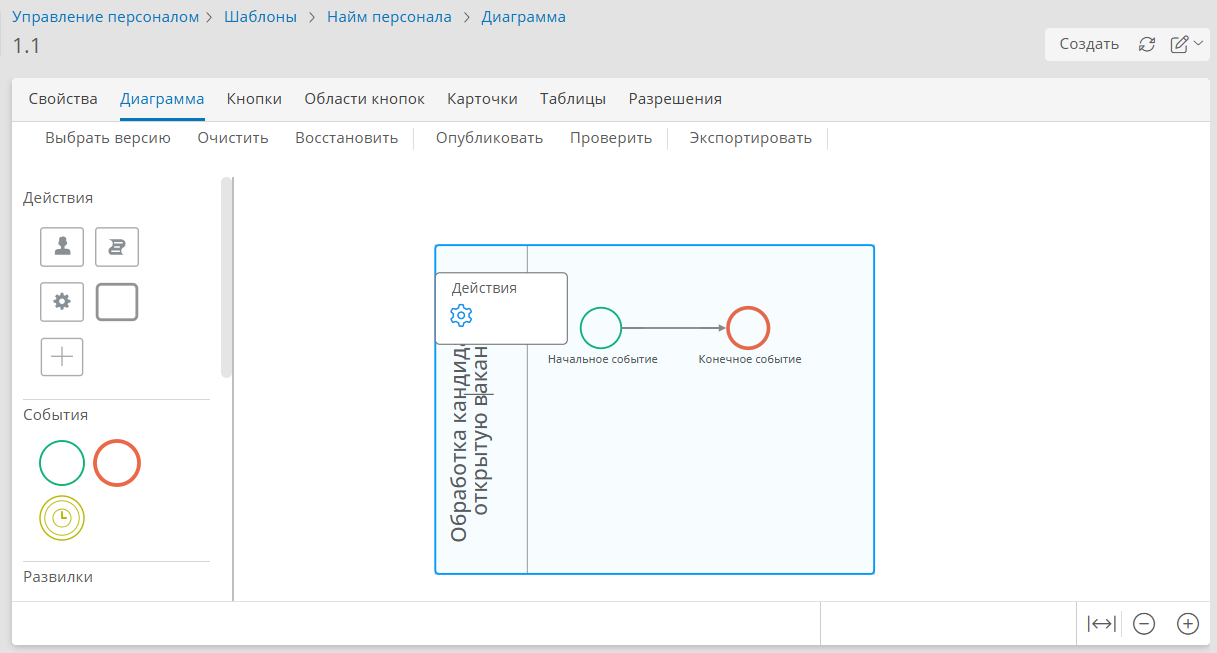
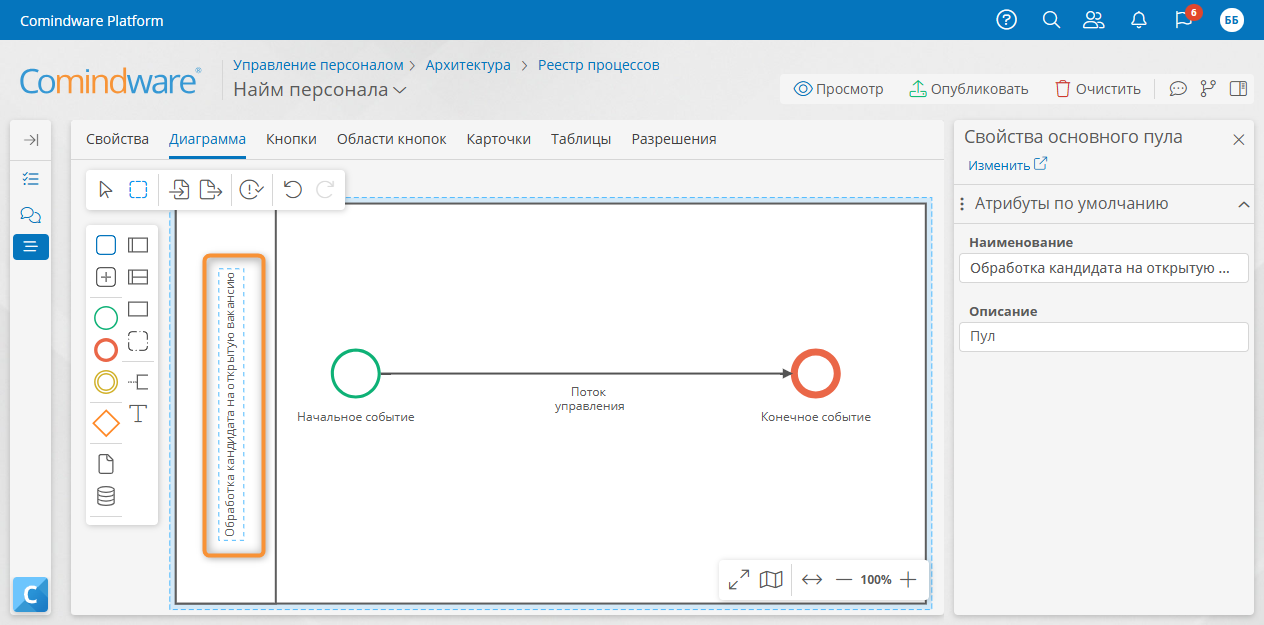
[#10346219] Updated and published process diagram articles and tutorial_hr/lesson_3

diff --git a/for_kb_import_ru/tutorials/tutorial_hr/lesson_3.html b/for_kb_import_ru/tutorials/tutorial_hr/lesson_3.html
@@ -264,24 +264,49 @@
 <p><figure class="screenshot_with_caption" markdown=""><img alt="Конструктор диаграммы процесса" src="/platform/v5.0/tutorials/tutorial_hr/img/lesson_3_process_diagram_designer.png"/><figcaption class="caption">Конструктор диаграммы процесса</figcaption></figure></p>
 <div class="notice notice-success">
 <p class="admonition-title">Конструктор диаграммы процесса</p>
-<p>Конструктор диаграммы процесса состоит из трех частей, показанных на иллюстрации.</p>
-<p><strong>(1)</strong> <strong>Панель элементов</strong>, которые можно перетащить на диаграмму:</p>
+<p>В конструкторе диаграммы процесса предусмотрены следующие области.</p>
+<p><strong>(1) Кнопки операций с диаграммой</strong></p>
 <ul>
-<li>
-<p><strong>Действия</strong> — задачи и подпроцессы:</p>
-<ul>
-<li><strong>задачи</strong> — <strong>пользовательские</strong> (выполнение действий данных участником процесса через форму задачи) и автоматические (выполнение сценария, вызов сервиса);</li>
-<li><strong>подпроцессы</strong> — <strong>вызов процесса</strong> и <strong>встроенный подпроцесс</strong>;</li>
+<li><strong>Просмотр</strong> — переход в режим просмотра диаграммы.</li>
+<li><strong>Опубликовать</strong> — <a class="mkdocs_imported_link" href="#process_diagram_publish">публикация</a> текущей диаграммы бизнес-процесса.</li>
+<li><strong>Очистить</strong> — удаление всех элементов с диаграммы процесса. При нажатии этой кнопки отобразится запрос подтверждения.</li>
+<li><strong>Обсуждение</strong> <i class="fa-light fa-comment-dots">&zwnj;<!--icon--></i> — отображение панели с обсуждением диаграммы.</li>
+<li><strong>Версия</strong> <i class="fa-light fa-code-branch">&zwnj;<!--icon--></i> — <a class="mkdocs_imported_link" href="https://kb.comindware.ru/article.php?id=4722">управление опубликованными версиями</a> диаграммы процесса.</li>
+<li><strong>Свойства</strong> <i class="fa-light fa-sidebar-flip">&zwnj;<!--icon--></i> — отображение панели свойств диаграммы и элементов.</li>
 </ul>
+<p><strong>(2) Панель инструментов</strong></p>
+<ul>
+<li><strong>Указатель</strong> <i class="fa-light fa-arrow-pointer">&zwnj;<!--icon--></i> — выбор отдельных элементов.</li>
+<li>
+<p><strong>Лассо</strong> <i class="fa-light fa-square-dashed">&zwnj;<!--icon--></i> — выбор нескольких элементов.</p>
 </li>
 <li>
-<p><strong>События</strong> — <strong>начальное, промежуточное и конечное</strong>;</p>
+<p><strong>Импорт</strong> <i class="fa-light fa-file-import">&zwnj;<!--icon--></i> — импорт диаграммы в формате <code>BPMN</code>.</p>
 </li>
-<li><strong>Развилки</strong> — «<strong>или/или</strong>», «<strong>и</strong>» (параллельная);</li>
-<li><strong>Общие элементы</strong> — <strong>дорожка</strong>, <strong>поток управления</strong>, <strong>комментарий</strong>.</li>
+<li>
+<p><strong>Экспорт</strong> <i class="fa-light fa-file-export">&zwnj;<!--icon--></i> — экспорт диаграммы в формате <code>BPMN</code>, <code>PNG</code> или <code>SVG</code>, а также экспорт регламента процесса в формате <code>DOCX</code> или <code>PDF</code> (может требоваться лицензия на <strong>Comindware Platform Enterprise</strong>). См. <em>«<a class="mkdocs_imported_link" href="https://kb.comindware.ru/article.php?id=4832">Импорт и экспорт диаграмм и регламентов</a>»</em>.</p>
+</li>
+<li>
+<p><strong>Проверить</strong> <i class="fa-light fa-circle-exclamation-check">&zwnj;<!--icon--></i> - <a class="mkdocs_imported_link" href="#process_diagram_verify">проверка</a> диаграммы процесса на ошибки, не позволяющие опубликовать её.</p>
+</li>
+<li><strong>Отменить</strong> — отмена последнего действия.</li>
+<li><strong>Повторить</strong> — возвращение последнего действия.</li>
 </ul>
-<p><strong>(2)</strong> <strong>Диаграмма</strong> бизнес-процесса.</p>
-<p><strong>(3)</strong> Кнопки <strong>Выбрать версию</strong>, <strong>Очистить</strong>, <strong>Восстановить</strong>, <strong>Опубликовать</strong>, <strong>Проверить</strong>, <strong>Экспортировать</strong>.</p>
+<p><strong>(3) Панель элементов</strong> — содержит <a class="mkdocs_imported_link" href="https://kb.comindware.ru/article.php?id=4724">элементы</a>, которые можно перетащить на диаграмму процесса.</p>
+<p><strong>(4) Панель свойств элемента</strong> — отображается, когда выбран элемент диаграммы и содержит стандартные свойства элемента.</p>
+<p><strong>(5) Кнопки масштабирования</strong></p>
+<ul>
+<li><strong>Во весть экран</strong> <i class="fa-light fa-arrow-up-right-and-arrow-down-left-from-center">&zwnj;<!--icon--></i>.</li>
+<li><strong>Мини-карта</strong> <i class="fa-light fa-map">&zwnj;<!--icon--></i>.</li>
+<li><strong>Центрировать</strong> <i class="fa-light fa-arrows-left-right">&zwnj;<!--icon--></i> — поместить всю диаграмму на экран.</li>
+<li><strong>Уменьшить</strong> <i class="fa-light fa-minus">&zwnj;<!--icon--></i>.</li>
+<li><strong>Масштаб</strong> — отобразить диаграмму в масштабе 100%.</li>
+<li><strong>Увеличить</strong> <i class="fa-light fa-plus">&zwnj;<!--icon--></i>.</li>
+<li>Масштабировать диаграмму также можно с помощью колёсика прокрутки мыши.</li>
+<li>Чтобы переместить диаграмму на экране, нажмите и перетащите её пустую область.</li>
+</ul>
+<p><a class="mkdocs_imported_link" href="" id="process_diagram_call_element_menu"></a>
+<strong>(6) Меню элемента</strong> — содержит команды для работы с выбранным элементом. Отображается при нажатии элемента диаграммы. Набор команд в этом меню зависит от <a class="mkdocs_imported_link" href="https://kb.comindware.ru/article.php?id=4724">типа элемента</a>.</p>
 </div>
 </li>
 <li>
@@ -305,7 +330,7 @@
 </li>
 <li>Присвойте дорожкам названия: <em>HR-менеджер, Нанимающий менеджер, Служба безопасности.</em></li>
 <li>
-<p>Чтобы переименовать дорожку, выберите её и в раскрывающемся меню элемента нажмите кнопку «<strong>Свойства</strong>» <i class="fa-light fa-gear">&zwnj;<!--icon--></i>.</p>
+<p>Чтобы переименовать дорожку, нажмите её правой кнопкой мыши и в раскрывающемся меню элемента нажмите кнопку «<strong>Настроить</strong>» <i class="fa-light fa-gear">&zwnj;<!--icon--></i>.</p>
 <p><figure class="screenshot_with_caption" markdown=""><img alt="Переход к настройке дорожки" src="/platform/v5.0/tutorials/tutorial_hr/img/lesson_3_lane_properties.png"/><figcaption class="caption">Переход к настройке дорожки</figcaption></figure></p>
 </li>
 <li>
@@ -315,11 +340,11 @@
 <h3 id="tutorial_hr_lesson_3_bpmn_configure_elements">Настройка элементов диаграммы</h3>
 <ol class="colored_numbers_list">
 <li>
-<p>Удалите конечное событие. Для этого выберите его и в меню элемента нажмите кнопку «<strong>Удалить</strong>» <i class="fa-light fa-trash-can">&zwnj;<!--icon--></i>.</p>
+<p>Удалите конечное событие. Для этого нажмите его правой кнопкой мыши и в меню элемента нажмите кнопку «<strong>Удалить</strong>» <i class="fa-light fa-trash-can">&zwnj;<!--icon--></i>.</p>
 <p><figure class="screenshot_with_caption" markdown=""><img alt="Удаление элемента диаграммы процесса" src="/platform/v5.0/tutorials/tutorial_hr/img/lesson_3_end_event_delete.png"/><figcaption class="caption">Удаление элемента диаграммы процесса</figcaption></figure></p>
 </li>
 <li>
-<p>Чтобы переименовать стартовое событие, выберите его и в раскрывающемся меню элемента нажмите кнопку «<strong>Свойства</strong>» <i class="fa-light fa-gear">&zwnj;<!--icon--></i>.</p>
+<p>Чтобы переименовать стартовое событие, нажмите его правой кнопкой мыши и в раскрывающемся меню элемента нажмите кнопку «<strong>Настроить</strong>» <i class="fa-light fa-gear">&zwnj;<!--icon--></i>.</p>
 </li>
 <li>В отобразившемся окне «<strong>Свойства начального события</strong>» введите новое название <em>«Проведено тестирование кандидата»</em> и нажмите кнопку «<strong>Сохранить</strong>».</li>
 <li>
@@ -333,7 +358,7 @@
 <p>Присвойте задаче название:</p>
 <ul>
 <li>Выберите задачу на диаграмме.</li>
-<li>В меню элемента выберите пункт <strong>свойства</strong>.</li>
+<li>В меню элемента нажмите кнопку «<strong>Настроить</strong>».</li>
 <li>На вкладке «<strong>Основные</strong>» введите <strong>название</strong> <em>«Зафиксировать результаты тестирования»</em>.</li>
 <li>На вкладке «<strong>Дополнительные</strong>» введите <strong>заголовок задачи</strong> <em>«Зафиксировать результаты тестирования»</em>.</li>
 </ul>
@@ -355,7 +380,7 @@
 <p>Присоедините к развилке два потока управления.</p>
 </li>
 <li>
-<p>Присвойте развилке название <em>«Кандидат прошёл тестирование?»</em>. Для этого дважды нажмите развилку и введите её название или введите название развилки в её <strong>свойствах</strong> с помощью меню элемента.</p>
+<p>Присвойте развилке название <em>«Кандидат прошёл тестирование?»</em>. Для этого дважды нажмите развилку или нажмите кнопку «<strong>Настроить</strong>» <i class="fa-light fa-gear">&zwnj;<!--icon--></i> в меню элемента и введите новое название.</p>
 <p><figure class="screenshot_with_caption" markdown=""><img alt="Переход к настройке развилки «или/или»" src="/platform/v5.0/tutorials/tutorial_hr/img/lesson_3_exclusive_gate_properties.png"/><figcaption class="caption">Переход к настройке развилки «или/или»</figcaption></figure></p>
 <div class="notice notice-warning">
 <p class="admonition-title">Бизнес-логика</p>
@@ -382,7 +407,7 @@
 </div>
 </li>
 <li>
-<p>Выберите развилку и в меню элемента нажмите кнопку «<strong>Свойства</strong>» <i class="fa-light fa-gear">&zwnj;<!--icon--></i>.</p>
+<p>Нажмите развилку правой кнопкой мыши и в меню элемента нажмите кнопку «<strong>Настроить</strong>» <i class="fa-light fa-gear">&zwnj;<!--icon--></i>.</p>
 </li>
 <li>Отобразится окно «<strong>Свойства развилки «или/или</strong>».</li>
 <li>На вкладке «<strong>Дополнительные</strong>» укажите названия исходящих потоков — <em>«Да»</em> и <em>«Нет»</em>. Для этого дважды нажмите соответствующие поля.</li>
@@ -410,7 +435,7 @@
 <p>От второй <strong>развилки «и»</strong> добавьте элемент «<strong>Развилка</strong> «<strong>или/или</strong>».</p>
 </li>
 <li>Присоедините к развилке два потока управления.</li>
-<li>Присвойте развилке название <em>«Кандидат прошёл проверку?»</em>. Для этого дважды нажмите развилку и введите её название или нажмите кнопку «<strong>Свойства</strong>» <i class="fa-light fa-gear">&zwnj;<!--icon--></i> в меню элемента.</li>
+<li>Присвойте развилке название <em>«Кандидат прошёл проверку?»</em>. Для этого дважды нажмите развилку или нажмите кнопку «<strong>Настроить</strong>» <i class="fa-light fa-gear">&zwnj;<!--icon--></i> в меню элемента и введите новое название.</li>
 <li>
 <p>К развилке <em>«Кандидат прошёл проверку?»</em> присоедините потоками управления два новых элемента:</p>
 <ul>
@@ -433,7 +458,7 @@
 <p>Настроим форму для задачи <em>«Зафиксировать результаты тестирования»</em>. На этой форме <em>HR-менеджер</em> будет заполнять данные кандидата и указывать результаты тестирования.</p>
 <ol class="colored_numbers_list">
 <li>
-<p>Выберите задачу <em>«Зафиксировать результаты тестирования»</em> и в меню элемента нажмите кнопку «<strong>Форма</strong>» <i class="fa-light fa-newspaper">&zwnj;<!--icon--></i>.</p>
+<p>Нажмите правой кнопкой мыши задачу <em>«Зафиксировать результаты тестирования»</em> и в меню элемента нажмите кнопку «<strong>Форма</strong>» <i class="fa-light fa-newspaper">&zwnj;<!--icon--></i>.</p>
 <p><figure class="screenshot_with_caption" markdown=""><img alt="Переход к настройке формы задачи" src="/platform/v5.0/tutorials/tutorial_hr/img/lesson_3_task_form_open.png"/><figcaption class="caption">Переход к настройке формы задачи</figcaption></figure></p>
 </li>
 <li>
@@ -452,7 +477,7 @@
 <h3 id="tutorial_hr_lesson_3_task_form_interview">Форма задачи «Провести собеседование»</h3>
 <p>Настроим форму для задачи <em>«Провести собеседование»</em>.</p>
 <ol class="colored_numbers_list">
-<li>Выберите задачу <em>«Провести собеседование»</em> и в меню элемента нажмите кнопку «<strong>Форма</strong>» <i class="fa-light fa-newspaper">&zwnj;<!--icon--></i>.</li>
+<li>Нажмите правой кнопкой мыши задачу <em>«Провести собеседование»</em> и в меню элемента нажмите кнопку «<strong>Форма</strong>» <i class="fa-light fa-newspaper">&zwnj;<!--icon--></i>.</li>
 <li>
 <p>Создайте <strong>логический</strong> атрибут <em>«Результат собеседования»</em>, нажав кнопку «<strong>Добавить атрибут</strong>» <i class="fa-light fa-plus">&zwnj;<!--icon--></i> у элемента <em>«Кандидаты»</em>.</p>
 <p><figure class="screenshot_with_caption" markdown=""><img alt="Добавление нового атрибута через форму задачи" src="/platform/v5.0/tutorials/tutorial_hr/img/lesson_3_add_new_attribute.png"/><figcaption class="caption">Добавление нового атрибута через форму задачи</figcaption></figure></p>
@@ -484,7 +509,7 @@
 </figure>
 <h3 id="tutorial_hr_lesson_3_task_form_offer">Форма задачи «Сформировать и согласовать предложение с кандидатом»</h3>
 <ol class="colored_numbers_list">
-<li>Выберите задачу <em>«Сформировать и согласовать предложение с кандидатом»</em> и в меню элемента нажмите кнопку «<strong>Форма</strong>» <i class="fa-light fa-newspaper">&zwnj;<!--icon--></i>.</li>
+<li>Нажмите правой кнопкой мыши задачу <em>«Сформировать и согласовать предложение с кандидатом»</em> и в меню элемента нажмите кнопку «<strong>Форма</strong>» <i class="fa-light fa-newspaper">&zwnj;<!--icon--></i>.</li>
 <li>Перетащите форму <em>«Кандидаты — Основная форма»</em> на макет формы.</li>
 <li>Сохраните форму.</li>
 <li>Вернитесь к диаграмме процесса, нажав кнопку «<strong>Назад</strong>» в браузере.</li>
@@ -501,7 +526,7 @@
 <p>Для управления ходом процесса определим условие для потока к <strong>развилке «и»</strong> на основе значения атрибута <em>«Результат тестирования»</em>.</p>
 </div>
 <ol class="colored_numbers_list">
-<li>Выберите развилку <em>«Кандидат прошёл тестирование?»</em> и в меню элемента нажмите кнопку «<strong>Свойства</strong>» <i class="fa-light fa-gear">&zwnj;<!--icon--></i>.</li>
+<li>Нажмите правой кнопкой мыши развилку <em>«Кандидат прошёл тестирование?»</em> и в меню элемента нажмите кнопку «<strong>Настроить</strong>» <i class="fa-light fa-gear">&zwnj;<!--icon--></i>.</li>
 <li>Перейдите на вкладку «<strong>Дополнительные</strong>».</li>
 <li>
 <p>Для потока <em>«Нет»</em>, ведущего к конечному событию <em>«Кандидат не прошёл тестирование»</em>, установите флажок «<strong>Поток</strong> «<strong>иначе</strong>».</p>
@@ -529,7 +554,7 @@
 <h3 id="развилка-кандидат-прошёл-проверку">Развилка «Кандидат прошёл проверку?»</h3>
 <p>Эта развилка проверяет, что кандидат успешно прошёл собеседование.</p>
 <ol class="colored_numbers_list">
-<li>Выберите развилку <em>«Кандидат прошёл проверку?»с</em> и в меню элемента нажмите кнопку «<strong>Свойства</strong>» <i class="fa-light fa-gear">&zwnj;<!--icon--></i>.</li>
+<li>Нажмите правой кнопкой мыши развилку <em>«Кандидат прошёл проверку?»с</em> и в меню элемента нажмите кнопку «<strong>Настроить</strong>» <i class="fa-light fa-gear">&zwnj;<!--icon--></i>.</li>
 <li>Перейдите на вкладку «<strong>Дополнительные</strong>».</li>
 <li>Для потока <em>«Нет»</em>, ведущего к конечному событию <em>«Кандидат не прошёл собеседование»</em>, установите флажок «<strong>Поток</strong> «<strong>иначе</strong>».</li>
 <li>Для потока <em>«Да»</em> в ячейке «<strong>Условие</strong>» введите формулу <code>$Результатсобеседования</code>.</li>
@@ -538,15 +563,19 @@
 <figure class="screenshot_with_caption">
 <p><img alt="Настройка развилки «Кандидат прошёл проверку?»" src="/platform/v5.0/tutorials/tutorial_hr/img/lesson_3_exclusive_gate_2_formula.png"/><figcaption class="caption">Настройка развилки «Кандидат прошёл проверку?»</figcaption></p>
 </figure>
+<p><a class="mkdocs_imported_link" href="" id="process_diagram_verify"></a>
+<a class="mkdocs_imported_link" href="" id="process_diagram_publish"></a></p>
 <h2 id="tutorial_hr_lesson_3_publish">Проверка и публикация процесса</h2>
 <p>Вы настроили шаблон бизнес-процесса. Чтобы применить изменения и запустить процесс, его необходимо опубликовать.</p>
 <p>Диаграмму бизнес-процесса рекомендуется публиковать каждый раз после внесения изменений.</p>
 <p>Перед публикацией проверьте диаграмму, чтобы убедиться, что формулы верны и диаграмма соответствует нотации BPMN.</p>
 <ol class="colored_numbers_list">
 <li>
-<p>Нажмите кнопку «<strong>Проверить</strong>» в конструкторе диаграммы процесса.</p>
-<p>-Если обнаружены какие-либо ошибки, элементы с ошибками будут выделены красным цветом. Щёлкните восклицательный знак рядом с выделенным элементом, чтобы просмотреть сообщения об ошибках.
--Если диаграмма не содержит ошибок, появится сообщение «<strong>Ошибок нет</strong>», после чего диаграмму можно публиковать.</p>
+<p>Нажмите кнопку «<strong>Проверить</strong>» <i class="fa-light fa-circle-exclamation-check">&zwnj;<!--icon--></i> в конструкторе диаграммы процесса.</p>
+<ul>
+<li>Если обнаружены какие-либо ошибки, элементы с ошибками будут выделены красным цветом. Нажмите восклицательный знак рядом с выделенным элементом, чтобы просмотреть сообщения об ошибках.</li>
+<li>Если диаграмма не содержит ошибок, в панели проверки отобразится вкладка «<strong>Ошибки 0</strong>», после чего диаграмму можно публиковать.</li>
+</ul>
 </li>
 <li>
 <p>Нажмите кнопку «<strong>Опубликовать</strong>».</p>

diff --git a/for_kb_import_ru/business_apps/diagrams/process_diagram/process_diagram_version_control.html b/for_kb_import_ru/business_apps/diagrams/process_diagram/process_diagram_version_control.html
@@ -99,12 +99,12 @@
 <li>Откройте <a class="mkdocs_imported_link" href="#process_diagram_version_list">список версий</a> диаграммы.</li>
 <li>Выберите требуемую версию.</li>
 <li>Выбранная версия будет открыта для просмотра.</li>
-<li>При необходимости нажмите кнопку «<strong>Редактировать</strong>» <i class="fa-light fa-pen-nib">&zwnj;<!--icon--></i>, чтобы <a class="mkdocs_imported_link" href="https://kb.comindware.ru/article.php?id=4721#process_diagram_designer">изменить</a> и опубликовать новую версию диаграммы на основе выбранной.</li>
+<li>При необходимости нажмите кнопку «<strong>Редактировать</strong>» <i class="fa-light fa-pen-nib">&zwnj;<!--icon--></i>, чтобы <a class="mkdocs_imported_link" href="https://kb.comindware.ru/article.php?id=4721#process_diagram_designer">изменить</a> и опубликовать новую версию диаграммы на основе <strong>текущей</strong> черновой.</li>
 </ol>
 <div class="notice notice-info">
 <p class="admonition-title">Примечание</p>
 <ul>
-<li>При <a class="mkdocs_imported_link" href="https://kb.comindware.ru/article.php?id=4721#process_diagram_designer">редактировании</a> выбранной версии будет создан её черновик с названием «<strong>Текущая версия</strong>».</li>
+<li>При <a class="mkdocs_imported_link" href="https://kb.comindware.ru/article.php?id=4721#process_diagram_designer">редактировании</a> диаграммы будет создан её черновик с названием «<strong>Текущая версия</strong>».</li>
 <li>До тех пор, пока <strong>текущая версия</strong> диаграммы не будет <a class="mkdocs_imported_link" href="https://kb.comindware.ru/article.php?id=4721#process_diagram_publish">опубликована</a>, она будет открываться для редактирования независимо от того, какая версия выбрана в списке.</li>
 </ul>
 </div>

diff --git a/for_kb_import_ru/tutorials/tutorial_fleet/lesson_3.html b/for_kb_import_ru/tutorials/tutorial_fleet/lesson_3.html
@@ -670,8 +670,10 @@
 <ol class="colored_numbers_list">
 <li>
 <p>Нажмите кнопку «<strong>Проверить</strong>» в конструкторе диаграммы процесса.</p>
-<p>-Если обнаружены какие-либо ошибки, элементы с ошибками будут выделены красным цветом. Щёлкните восклицательный знак рядом с выделенным элементом, чтобы просмотреть сообщения об ошибках.
--Если диаграмма не содержит ошибок, появится сообщение «<strong>Ошибок нет</strong>», после чего диаграмму можно публиковать.</p>
+<ul>
+<li>Если обнаружены какие-либо ошибки, элементы с ошибками будут выделены красным цветом. Щёлкните восклицательный знак рядом с выделенным элементом, чтобы просмотреть сообщения об ошибках.</li>
+<li>Если диаграмма не содержит ошибок, появится сообщение «<strong>Ошибок нет</strong>», после чего диаграмму можно публиковать.</li>
+</ul>
 </li>
 <li>
 <p>Нажмите кнопку «<strong>Опубликовать</strong>».</p>

diff --git a/for_kb_import_ru/business_apps/diagrams/process_diagram/index.html b/for_kb_import_ru/business_apps/diagrams/process_diagram/index.html
@@ -305,7 +305,7 @@
 <li>Откройте <a class="mkdocs_imported_link" href="https://kb.comindware.ru/article.php?id=4721#process_diagram_designer">конструктор диаграммы</a>.</li>
 <li>Нажмите кнопку «<strong>Опубликовать</strong>».</li>
 <li>Будет выполнена <a class="mkdocs_imported_link" href="#process_diagram_verify">проверка диаграммы</a>.</li>
-<li>Если проверка прошла успешно, отобразится запрос выбора способа публикации. Если будут обнаружены ошибки, исправьте их, прежде чем публиковать диаграмму.</li>
+<li>Если проверка прошла успешно, будет опубликована новая версия диаграммы. Если будут обнаружены ошибки, исправьте их, прежде чем публиковать диаграмму.</li>
 </ol>
 <h2 id="process_diagram_verify">Проверка диаграммы процесса и типичные ошибки</h2>
 <p>Перед публикацией диаграммы автоматически выполняется её проверка.</p>

diff --git a/docs/ru/.snippets/process_diagram_designer.md b/docs/ru/.snippets/process_diagram_designer.md
@@ -1,0 +1,32 @@
+В конструкторе диаграммы процесса предусмотрены следующие области.
+
+**(1) Кнопки операций с диаграммой**
+
+- **Просмотр** — переход в режим просмотра диаграммы.
+- **Опубликовать** — [публикация](#process_diagram_publish) текущей диаграммы бизнес-процесса.
+- **Очистить** — удаление всех элементов с диаграммы процесса. При нажатии этой кнопки отобразится запрос подтверждения.
+- **Обсуждение** <i class="fa-light fa-comment-dots"></i> — отображение панели с обсуждением диаграммы.
+- **Версия** <i class="fa-light fa-code-branch"></i> — [управление опубликованными версиями][process_diagram_version_control] диаграммы процесса.
+- **Свойства** <i class="fa-light fa-sidebar-flip"></i> — отображение панели свойств диаграммы и элементов.
+
+**(2) Панель инструментов**
+
+- **Указатель** <i class="fa-light fa-arrow-pointer"></i> — выбор отдельных элементов.
+- **Лассо** <i class="fa-light fa-square-dashed"></i> — выбор нескольких элементов.
+
+{% include-markdown ".snippets/process_diagram_export.md" %}
+
+- **Проверить** <i class=" fa-light fa-circle-exclamation-check"></i> - [проверка](#process_diagram_verify) диаграммы процесса на ошибки, не позволяющие опубликовать её.
+- **Отменить** — отмена последнего действия.
+- **Повторить** — возвращение последнего действия.
+
+**(3) Панель элементов** — содержит [элементы][process_diagram_elements], которые можно перетащить на диаграмму процесса.
+
+**(4) Панель свойств элемента** — отображается, когда выбран элемент диаграммы и содержит стандартные свойства элемента.
+
+**(5) Кнопки масштабирования**
+
+--8<-- "process_diagram_scale_buttons.md"
+
+[](){: #process_diagram_call_element_menu }
+**(6) Меню элемента** — содержит команды для работы с выбранным элементом. Отображается при нажатии элемента диаграммы. Набор команд в этом меню зависит от [типа элемента][process_diagram_elements].

diff --git a/docs/ru/business_apps/diagrams/process_diagram/index.md b/docs/ru/business_apps/diagrams/process_diagram/index.md
@@ -89,6 +89,7 @@ _![Добавление и настройка элемента на диагра
 
 Конструктор диаграммы процесса позволяет редактировать диаграмму путем перетаскивания необходимых элементов и настроить логику исполнения процесса.
 
+<!--process-diagram-designer-definitions-start-->
 В конструкторе диаграммы процесса предусмотрены следующие области.
 
 **(1) Кнопки операций с диаграммой**
@@ -121,6 +122,7 @@ _![Добавление и настройка элемента на диагра
 
 [](){: #process_diagram_call_element_menu }
 **(6) Меню элемента** — содержит команды для работы с выбранным элементом. Отображается при нажатии элемента диаграммы. Набор команд в этом меню зависит от [типа элемента][process_diagram_elements].
+<!--process-diagram-designer-definitions-end-->
 
 _![Конструктор диаграммы процесса](img/process_diagram_designer.png)_
 
@@ -129,7 +131,7 @@ _![Конструктор диаграммы процесса](img/process_diagr
 1. Откройте [конструктор диаграммы][process_diagram_designer].
 2. Нажмите кнопку «**Опубликовать**».
 3. Будет выполнена [проверка диаграммы](#process_diagram_verify).
-4. Если проверка прошла успешно, отобразится запрос выбора способа публикации. Если будут обнаружены ошибки, исправьте их, прежде чем публиковать диаграмму.
+4. Если проверка прошла успешно, будет опубликована новая версия диаграммы. Если будут обнаружены ошибки, исправьте их, прежде чем публиковать диаграмму.
 <!-- This was supported in v4.2 and below. TODO: double-check if this is supported in v4.7 and above
 5. Выберите способ публикации диаграммы:
 

diff --git a/docs/ru/.snippets/hyperlinks_mkdocs_to_kb_map.md b/docs/ru/.snippets/hyperlinks_mkdocs_to_kb_map.md
@@ -257,8 +257,6 @@
 
 [optimize_calculate_attribute]: {{ kbArticleURLPrefix }}5055
 
-[process_diagram_version_control]: {{ kbArticleURLPrefix }}4722
-
 [process_fails_several_records]: {{ kbArticleURLPrefix }}5059
 
 [process_id_not_found]: {{ kbArticleURLPrefix }}5052
@@ -363,7 +361,7 @@
 
 {% endif %}
 
-{% if (not userGuide and (adminGuideLinux or adminGuideWindows)) or developerGuide or (tutorial and not userGuide) or kbExport %}
+{% if (not (userGuide or completeGuide) and (adminGuideLinux or adminGuideWindows or developerGuide or tutorial)) or kbExport %}
 
 <!-- Руководство администратора для Linux/Windows, отдельный учебник или экспорт в БЗ -->
 
@@ -741,9 +739,15 @@
 
 [pages_setup]: {{ kbArticleURLPrefix }}4810
 
+[process_diagram]: {{ kbArticleURLPrefix }}4721
+
 [process_diagram_call_element_menu]: {{ kbArticleURLPrefix }}4721#process_diagram_call_element_menu
 
 [process_diagram_designer]: {{ kbArticleURLPrefix }}4721#process_diagram_designer
+
+[process_diagram_view_instance]: {{ kbArticleURLPrefix }}4723
+
+[process_diagram_version_control]: {{ kbArticleURLPrefix }}4722
 
 [process_diagram_element_common_properties]: {{ kbArticleURLPrefix }}4725
 
@@ -806,6 +810,8 @@
 [process_diagram_view]: {{ kbArticleURLPrefix }}4721#process_diagram_view
 
 [process_email_configure]: {{ kbArticleURLPrefix }}4691
+
+[process_templates]: {{ kbArticleURLPrefix }}4758
 
 [scenario_elements]: {{ kbArticleURLPrefix }}4718
 
@@ -1143,15 +1149,9 @@
 
 [performance]: {{ kbArticleURLPrefix }}4669
 
-[process_diagram]: {{ kbArticleURLPrefix }}4721
-
-[process_diagram_view_instance]: {{ kbArticleURLPrefix }}4723
-
 [process_receiving_connection]: {{ kbArticleURLPrefix }}4695
 
 [process_sending_connection]: {{ kbArticleURLPrefix }}4690
-
-[process_templates]: {{ kbArticleURLPrefix }}4758
 
 [record_templates]: {{ kbArticleURLPrefix }}4759
 

diff --git a/docs/ru/business_apps/diagrams/process_diagram/process_diagram_version_control.md b/docs/ru/business_apps/diagrams/process_diagram/process_diagram_version_control.md
@@ -63,11 +63,11 @@ kbId: 4722
 2. Откройте [список версий](#process_diagram_version_list) диаграммы.
 3. Выберите требуемую версию.
 4. Выбранная версия будет открыта для просмотра.
-5. При необходимости нажмите кнопку «**Редактировать**» <i class="fa-light fa-pen-nib"></i>, чтобы [изменить][process_diagram_designer] и опубликовать новую версию диаграммы на основе выбранной.
+5. При необходимости нажмите кнопку «**Редактировать**» <i class="fa-light fa-pen-nib"></i>, чтобы [изменить][process_diagram_designer] и опубликовать новую версию диаграммы на основе **текущей** черновой.
 
 !!! note "Примечание"
 
-    - При [редактировании][process_diagram_designer] выбранной версии будет создан её черновик с названием «**Текущая версия**».
+    - При [редактировании][process_diagram_designer] диаграммы будет создан её черновик с названием «**Текущая версия**».
     - До тех пор, пока **текущая версия** диаграммы не будет [опубликована][process_diagram_publish], она будет открываться для редактирования независимо от того, какая версия выбрана в списке.
 
 _![Переход к редактированию требуемой версии диаграммы](img/process_diagram_version_control_edit.png)_

diff --git a/docs/ru/.snippets/tutorial_process_diagram_verify_steps.md b/docs/ru/.snippets/tutorial_process_diagram_verify_steps.md
@@ -6,7 +6,7 @@
 
 1. Нажмите кнопку «**Проверить**» в конструкторе диаграммы процесса.
 
-    -Если обнаружены какие-либо ошибки, элементы с ошибками будут выделены красным цветом. Щёлкните восклицательный знак рядом с выделенным элементом, чтобы просмотреть сообщения об ошибках.
-    -Если диаграмма не содержит ошибок, появится сообщение «**Ошибок нет**», после чего диаграмму можно публиковать.
+    - Если обнаружены какие-либо ошибки, элементы с ошибками будут выделены красным цветом. Щёлкните восклицательный знак рядом с выделенным элементом, чтобы просмотреть сообщения об ошибках.
+    - Если диаграмма не содержит ошибок, появится сообщение «**Ошибок нет**», после чего диаграмму можно публиковать.
 
 2. Нажмите кнопку «**Опубликовать**».
